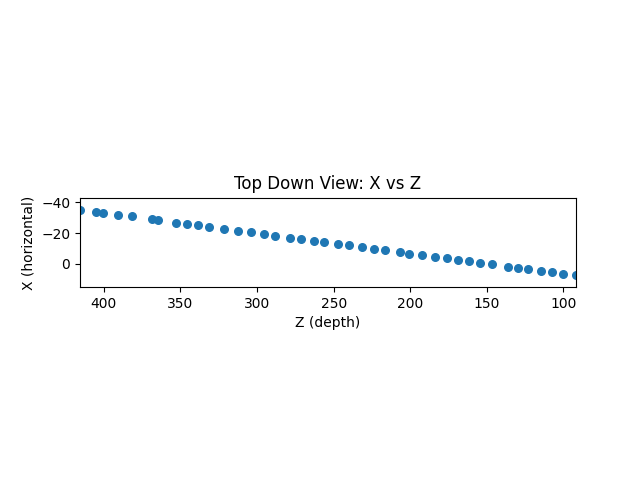
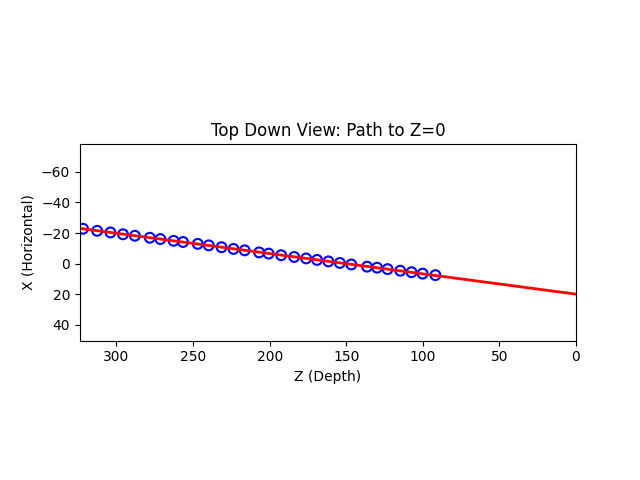
finised with trajectory lab

diff --git a/trajectory/4_trajectory.py b/trajectory/4_trajectory.py
@@ -171,6 +171,47 @@ def compute_global_scale(z_points, x_points, y_points):
 
     return z_range, max(x_range, y_range)+80
 
+def plot_z_x(z_points, x_points, z_range, x_range):
+    z = np.array(z_points)
+    x = np.array(x_points)
+
+    # ---- LINEAR FIT (Degree 1) ----
+    # This finds the 'm' and 'b' in x = mZ + b
+    coeffs = np.polyfit(z, x, 1) 
+    p = np.poly1d(coeffs)
+
+    # 1. Generate fit line from the back of the range to 0
+    z_fit = np.linspace(z_range, 0, 400)
+    x_fit = p(z_fit)
+
+    plt.figure()
+    
+    # Plot predicted path (straight line)
+    plt.plot(z_fit, x_fit, linewidth=2, color='red', label='Predicted Path')
+    
+    # Plot ball locations as hollow circles
+    plt.scatter(z, x, s=50, facecolors='none', edgecolors='blue', 
+                linewidths=1.5, label='Ball Trajectory')
+
+    # 2. Mark the intercept at Z=0
+    x_at_zero = p(0)
+
+    # 3. Viewport Control
+    plt.xlim(z_range, 0) # Z=0 on the right
+    
+    x_mid = (max(x) + min(x)) / 2
+    plt.ylim(x_mid + x_range/2, x_mid - x_range/2)
+
+    plt.gca().set_aspect('equal', adjustable='box')
+    plt.xlabel("Z (Depth)")
+    plt.ylabel("X (Horizontal)")
+    plt.title("Top Down View: Path to Z=0")
+    
+    plt.savefig("z_x.png")
+    plt.close()
+
+    return x_at_zero
+
 
 def plot_z_y(z_points, y_points, z_range, y_range):
     z = np.array(z_points)
@@ -186,7 +227,7 @@ def plot_z_y(z_points, y_points, z_range, y_range):
 
     plt.figure()
     plt.plot(z_fit, y_fit, linewidth=2, color='red', label='Predicted Path')
-    plt.scatter(z, y, s=30, label='Ball Trajectory')
+    plt.scatter(z, y, s=30, facecolors='none', edgecolors='blue', label='Ball Trajectory')
 
     # 2. Explicitly plot the intercept at Z=0
     y_at_zero = p(0)
@@ -303,11 +344,11 @@ if __name__ == "__main__":
     )
 
     # pass in y_range to both to keep plots scaled the same
-    # x_zero = plot_z_x(plot_points_z, plot_points_x, z_range, y_range)
+    x_zero = plot_z_x(plot_points_z, plot_points_x, z_range, y_range)
     y_zero = plot_z_y(plot_points_z, plot_points_y, z_range, y_range)
 
     print("Predicted intercept at Z=0:")
-    # print("X =", x_zero)
+    print("X =", x_zero)
     print("Y =", y_zero)
         
 
